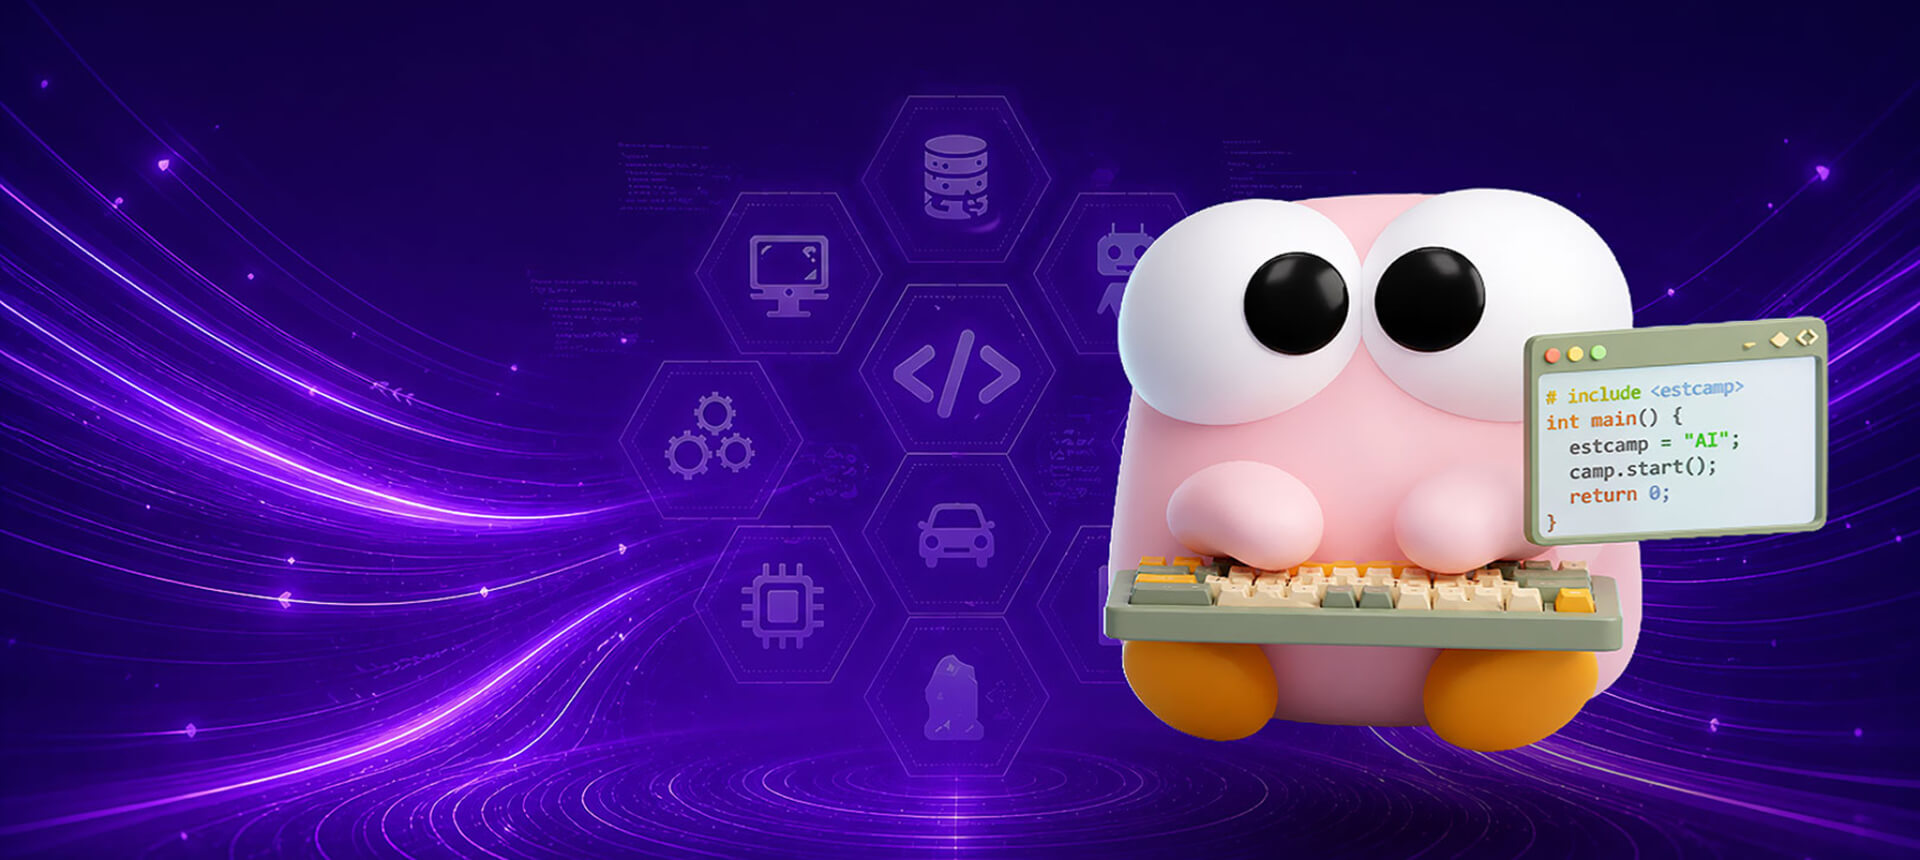
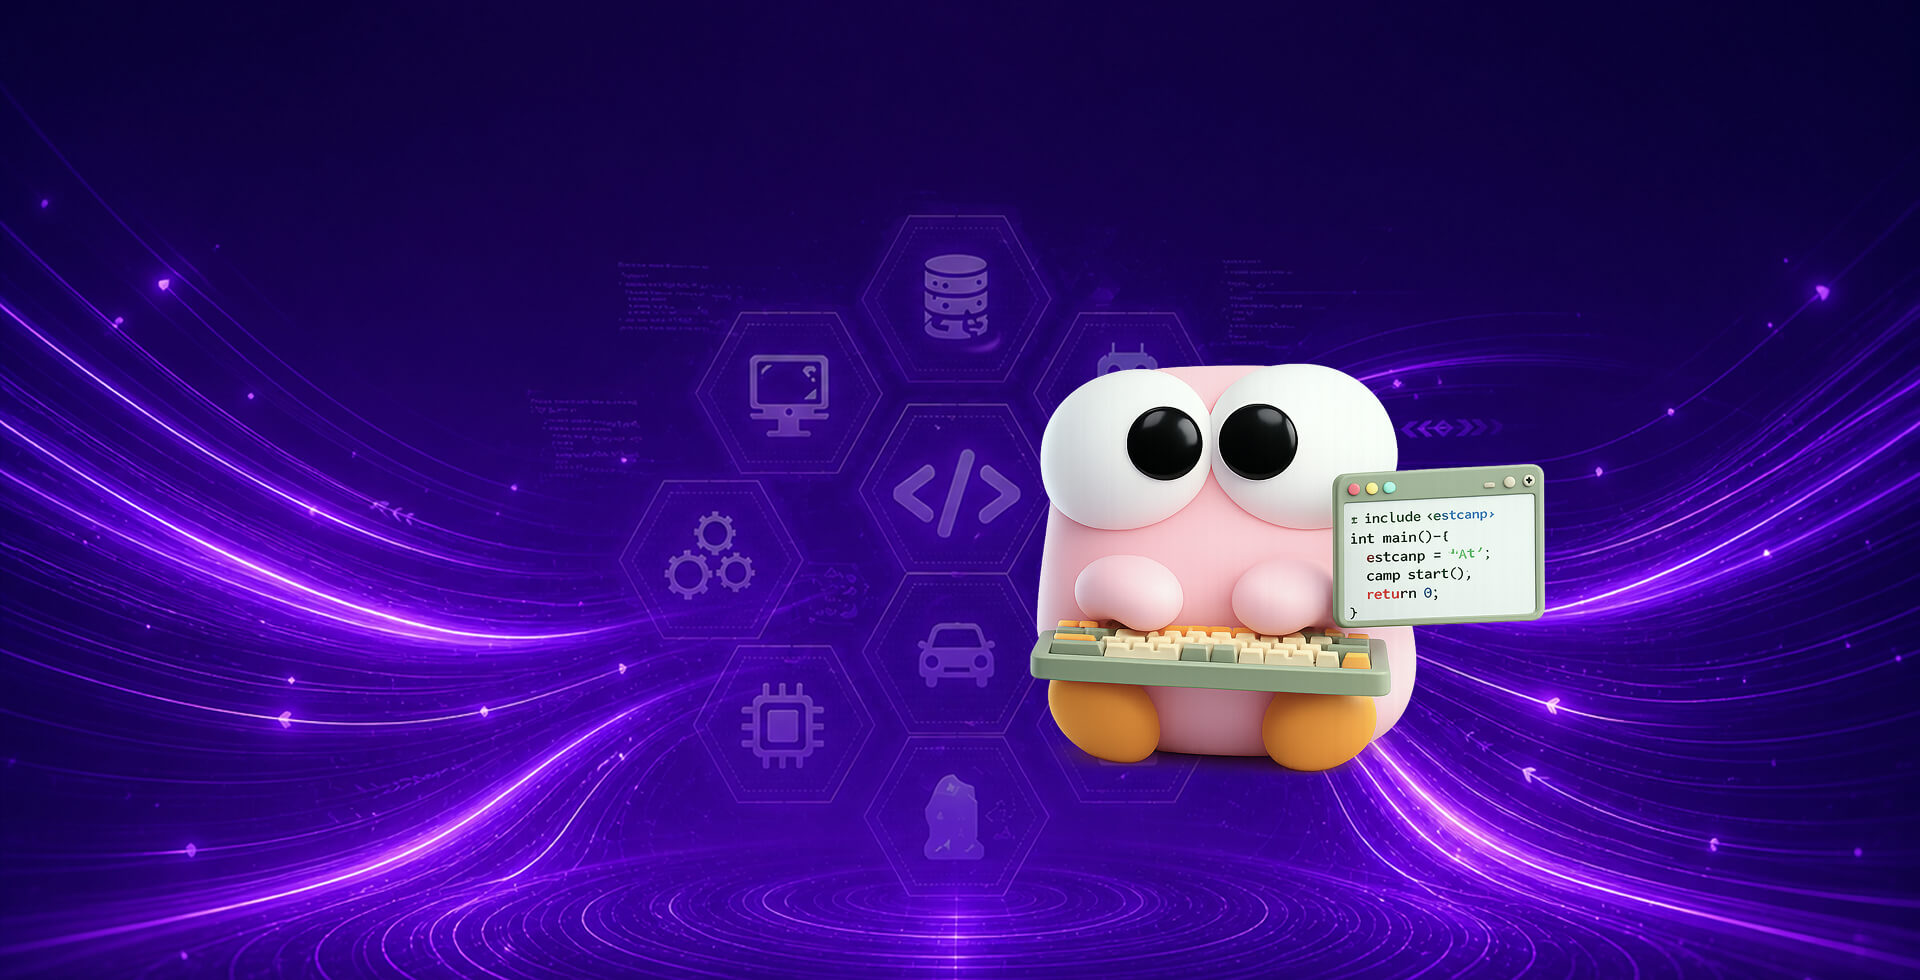
히어로섹션/참여이유 이미지 압축 후 관련 CSS 코드 수정

diff --git a/css/index.css b/css/index.css
@@ -41,16 +41,16 @@
 }
 /* 슬라이드 배경 이미지 */
 .item1 {
-  background-image: url(../images/hero_bg1.webp);
+  background-image: url(../images/hero_bg1.jpg);
 }
 .item2 {
-  background-image: url(../images/hero_bg2.webp);
+  background-image: url(../images/hero_bg2.jpg);
 }
 .item3 {
-  background-image: url(../images/hero_bg3.webp);
+  background-image: url(../images/hero_bg3.jpg);
 }
 .item4 {
-  background-image: url(../images/hero_bg4.webp);
+  background-image: url(../images/hero_bg4.jpg);
 }
 /* 자동 슬라이드 애니메이션 */
 @keyframes slide_auto {
@@ -264,7 +264,7 @@
     height: 576px;
 
     overflow: hidden;
-    background: url(../images/t_hero_bg.webp) center / cover no-repeat;
+    background: url(../images/t_hero_bg.jpg) center / cover no-repeat;
   }
 
   /* 컨테이너 */
@@ -417,7 +417,7 @@
 .join {
   width: 100%;
   min-height: 1000px;
-  background: var(--super-black) url(../images/section_join_BG.webp) no-repeat top center;
+  background: var(--super-black) url(../images/section_join_BG.jpg) no-repeat top center;
   background-size: 100% 100%;
   position: relative;
 }